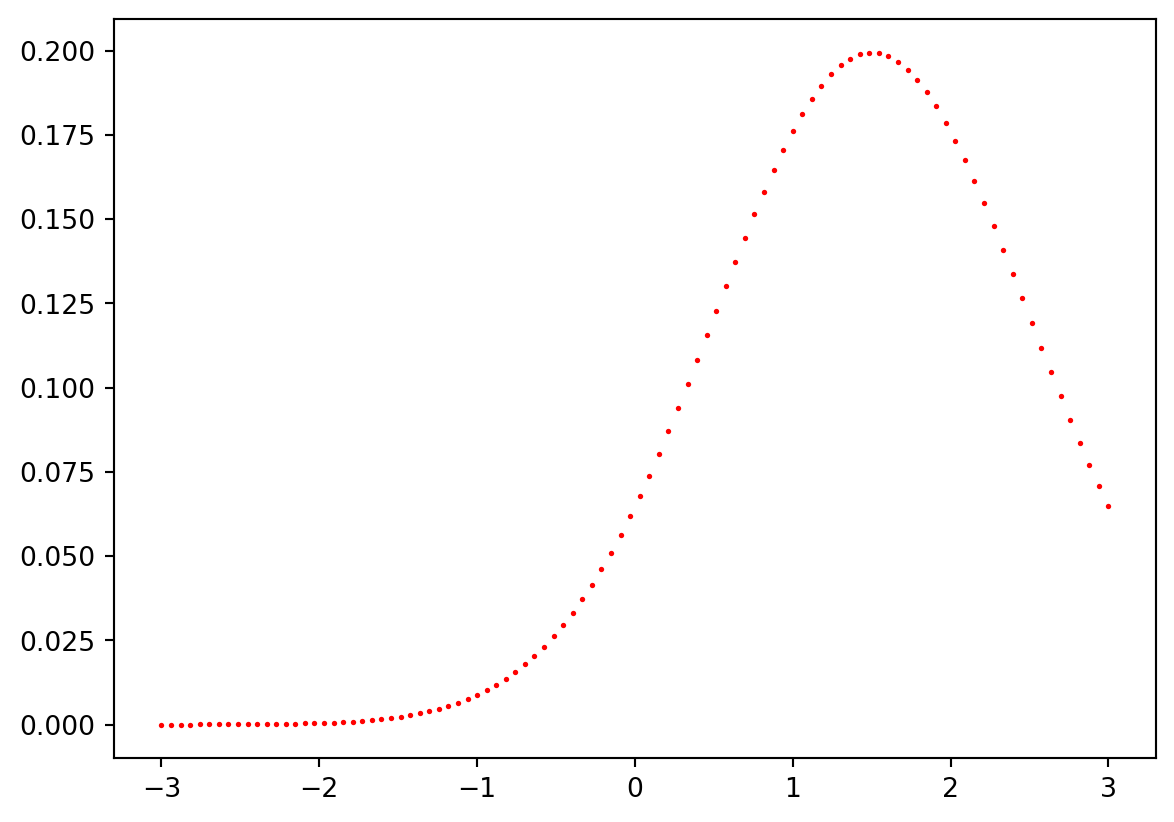
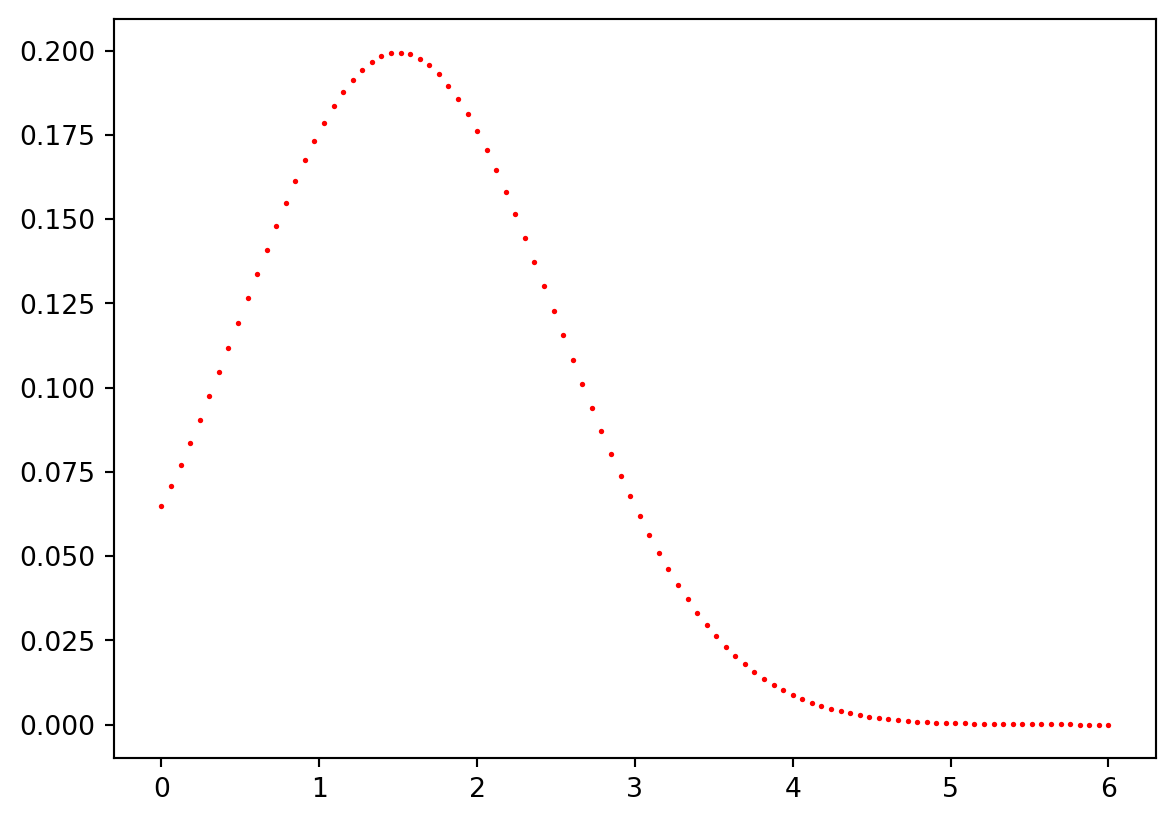
rev

diff --git a/docs/posts/hw5/index.html b/docs/posts/hw5/index.html
@@ -198,14 +198,14 @@ pre > code.sourceCode > span > a:first-child::before { text-decoration: underlin
 
 <section id="정규분포-pdf-값을-계산하는-자신만의-파이썬-함수를-정의하고-정규분포-mu-3-sigma-2-의-pdf를-그릴-것." class="level3">
 <h3 class="anchored" data-anchor-id="정규분포-pdf-값을-계산하는-자신만의-파이썬-함수를-정의하고-정규분포-mu-3-sigma-2-의-pdf를-그릴-것.">1. 정규분포 pdf 값을 계산하는 자신만의 파이썬 함수를 정의하고, 정규분포 mu = 3, sigma = 2 의 pdf를 그릴 것.</h3>
-<div id="f7c1339d" class="cell" data-execution_count="1">
+<div id="7ea92133" class="cell" data-execution_count="1">
 <div class="sourceCode cell-code" id="cb1"><pre class="sourceCode python code-with-copy"><code class="sourceCode python"><span id="cb1-1"><a href="#cb1-1" aria-hidden="true" tabindex="-1"></a><span class="im">import</span> matplotlib.pyplot <span class="im">as</span> plt</span>
 <span id="cb1-2"><a href="#cb1-2" aria-hidden="true" tabindex="-1"></a><span class="im">import</span> numpy <span class="im">as</span> np</span>
 <span id="cb1-3"><a href="#cb1-3" aria-hidden="true" tabindex="-1"></a><span class="im">import</span> math</span>
 <span id="cb1-4"><a href="#cb1-4" aria-hidden="true" tabindex="-1"></a><span class="kw">def</span> f(x):</span>
 <span id="cb1-5"><a href="#cb1-5" aria-hidden="true" tabindex="-1"></a>    <span class="cf">return</span> (<span class="dv">1</span> <span class="op">/</span> (<span class="dv">2</span> <span class="op">*</span> np.sqrt(<span class="dv">2</span> <span class="op">*</span> math.pi))) <span class="op">*</span> np.exp(<span class="op">-</span><span class="fl">0.5</span> <span class="op">*</span> ((x <span class="op">-</span> <span class="dv">3</span><span class="op">/</span><span class="dv">2</span>) <span class="op">**</span> <span class="dv">2</span>))</span>
 <span id="cb1-6"><a href="#cb1-6" aria-hidden="true" tabindex="-1"></a></span>
-<span id="cb1-7"><a href="#cb1-7" aria-hidden="true" tabindex="-1"></a>x <span class="op">=</span> np.linspace(<span class="op">-</span><span class="dv">3</span>, <span class="dv">3</span>, <span class="dv">100</span>)</span>
+<span id="cb1-7"><a href="#cb1-7" aria-hidden="true" tabindex="-1"></a>x <span class="op">=</span> np.linspace(<span class="dv">0</span>, <span class="dv">6</span>, <span class="dv">100</span>)</span>
 <span id="cb1-8"><a href="#cb1-8" aria-hidden="true" tabindex="-1"></a>plt.scatter(x, f(x), color<span class="op">=</span><span class="st">'red'</span>, s <span class="op">=</span><span class="dv">1</span>)</span>
 <span id="cb1-9"><a href="#cb1-9" aria-hidden="true" tabindex="-1"></a>plt.show()</span>
 <span id="cb1-10"><a href="#cb1-10" aria-hidden="true" tabindex="-1"></a>plt.clf()</span></code><button title="Copy to Clipboard" class="code-copy-button"><i class="bi"></i></button></pre></div>
@@ -227,7 +227,7 @@ pre > code.sourceCode > span > a:first-child::before { text-decoration: underlin
 <p>-1) P(X &lt; 3)</p>
 <p>-2) P(2 &lt; X &lt; 5)</p>
 <p>-3) P(X &lt; 3 or X &gt; 7)</p>
-<div id="e6085568" class="cell" data-execution_count="2">
+<div id="37b9eeb6" class="cell" data-execution_count="2">
 <div class="sourceCode cell-code" id="cb3"><pre class="sourceCode python code-with-copy"><code class="sourceCode python"><span id="cb3-1"><a href="#cb3-1" aria-hidden="true" tabindex="-1"></a><span class="im">from</span> scipy.stats <span class="im">import</span> norm</span>
 <span id="cb3-2"><a href="#cb3-2" aria-hidden="true" tabindex="-1"></a><span class="bu">print</span>(norm.cdf(<span class="dv">3</span>, loc <span class="op">=</span> <span class="dv">2</span>, scale <span class="op">=</span> <span class="dv">3</span>))</span>
 <span id="cb3-3"><a href="#cb3-3" aria-hidden="true" tabindex="-1"></a><span class="bu">print</span>(norm.cdf(<span class="dv">5</span>, loc <span class="op">=</span> <span class="dv">2</span>, scale <span class="op">=</span> <span class="dv">3</span>) <span class="op">-</span> norm.cdf(<span class="dv">2</span>, loc <span class="op">=</span> <span class="dv">2</span>, scale <span class="op">=</span> <span class="dv">3</span>))</span>
@@ -241,11 +241,11 @@ pre > code.sourceCode > span > a:first-child::before { text-decoration: underlin
 </section>
 <section id="ls-빅데이터-스쿨-학생들의-중간고사-점수는-평균이-30이고-분산이-4인-정규분포를-따른다.-상위-5에-해당하는-학생의-점수는" class="level3">
 <h3 class="anchored" data-anchor-id="ls-빅데이터-스쿨-학생들의-중간고사-점수는-평균이-30이고-분산이-4인-정규분포를-따른다.-상위-5에-해당하는-학생의-점수는">3. LS 빅데이터 스쿨 학생들의 중간고사 점수는 평균이 30이고, 분산이 4인 정규분포를 따른다. 상위 5%에 해당하는 학생의 점수는?</h3>
-<div id="7d4d4f86" class="cell" data-execution_count="3">
+<div id="8ed3de20" class="cell" data-execution_count="3">
 <div class="sourceCode cell-code" id="cb5"><pre class="sourceCode python code-with-copy"><code class="sourceCode python"><span id="cb5-1"><a href="#cb5-1" aria-hidden="true" tabindex="-1"></a><span class="im">from</span> scipy.stats <span class="im">import</span> norm</span>
-<span id="cb5-2"><a href="#cb5-2" aria-hidden="true" tabindex="-1"></a>norm.ppf(<span class="fl">0.05</span>,loc <span class="op">=</span> <span class="dv">30</span>, scale <span class="op">=</span> <span class="dv">4</span>)</span></code><button title="Copy to Clipboard" class="code-copy-button"><i class="bi"></i></button></pre></div>
+<span id="cb5-2"><a href="#cb5-2" aria-hidden="true" tabindex="-1"></a>norm.ppf(<span class="fl">0.95</span>,loc <span class="op">=</span> <span class="dv">30</span>, scale <span class="op">=</span> <span class="dv">2</span>)</span></code><button title="Copy to Clipboard" class="code-copy-button"><i class="bi"></i></button></pre></div>
 <div class="cell-output cell-output-display" data-execution_count="3">
-<pre><code>np.float64(23.420585492194107)</code></pre>
+<pre><code>np.float64(33.28970725390295)</code></pre>
 </div>
 </div>
 

diff --git a/docs/blog.html b/docs/blog.html
@@ -407,7 +407,7 @@ Jul 22, 2024
 </a>
 </div>
 </div>
-<div class="quarto-post image-right" data-index="6" data-categories="bigdata" data-listing-date-sort="1721833200000" data-listing-file-modified-sort="1721903506543" data-listing-date-modified-sort="NaN" data-listing-reading-time-sort="1" data-listing-word-count-sort="128">
+<div class="quarto-post image-right" data-index="6" data-categories="bigdata" data-listing-date-sort="1721833200000" data-listing-file-modified-sort="1721950186418" data-listing-date-modified-sort="NaN" data-listing-reading-time-sort="1" data-listing-word-count-sort="128">
 <div class="thumbnail">
 <p><a href="./posts/hw5/index.html" class="no-external"></a></p><a href="./posts/hw5/index.html" class="no-external">
 <p class="card-img-top"><img src="posts\hw5\index_files\figure-html\cell-2-output-1.png"  class="thumbnail-image card-img"/></p>
